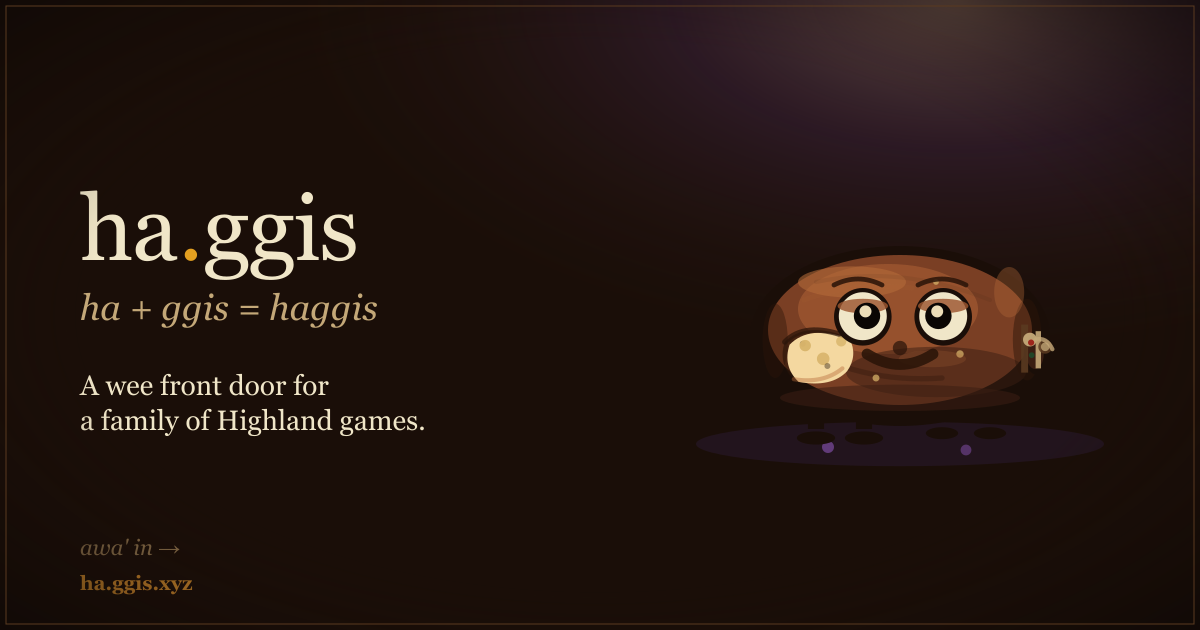
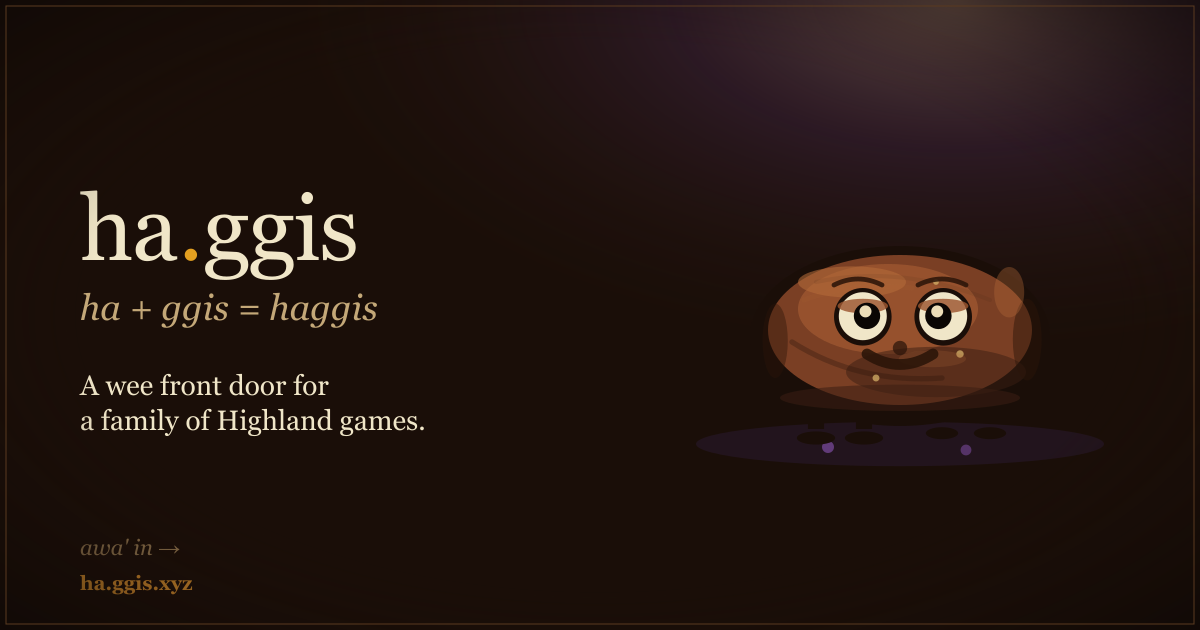
design: remove oat cutaway and tied casing from Wee Chieftain
Both read as confusing at room scale: the cutaway was unrecognisable as
a food-context window; the tied knot was unidentifiable as any feature.
Removed from bothy-haggis.ts, og.svg, og.png, golden, DESIGN.md, WRITEUP.md.
Dead fillTornCutaway helper removed. Tests rewritten to assert absence.
All 219 vitest pass; visual gate Hamming distance 0.

Changed region(s): [[0.6475, 0.5127, 0.7092, 0.6032], [0.8325, 0.5127, 0.8942, 0.6032]]

diff --git a/src/render/bothy-haggis.ts b/src/render/bothy-haggis.ts
@@ -6,10 +6,8 @@
 //
 // Read cues:
 //   - squat whole-haggis oval, wider than tall
-//   - glossy cooked casing with seams and tied ends
-//   - pale oat cutaway with casing lip as the dominant food tell
+//   - glossy cooked casing with seams
 //   - big cream eyes for WHS-level readability
-//   - compact tartan-twine collar for Scottish flavour, not a hat
 //   - tiny uneven legs for the haggis-family drift gag
 //
 // Native scale 1 is about 58 wide by 42 tall including legs. The room
@@ -160,70 +158,33 @@ export function drawBothyHaggis(
   fillEllipseRaw(ctx, palette.casingSeam, 0.48, mx(21.2), my(1.6), 2.4 * s, 6.8 * s);
   fillEllipseRaw(ctx, palette.casingHighlight, 0.36, mx(18.2), my(-6.3), 2.5 * s, 4.2 * s);
 
-  // Asymmetric tied casing. Left end is marked by the seam oval only;
-  // the right gets the tied knot. Two large side blobs would read as ears.
-  fillEllipseRaw(ctx, palette.outline, 1, mx(23), my(4), 2.4 * s, 3.5 * s);
-  fillEllipseRaw(ctx, palette.casingDeep, 1, mx(22.5), my(4), 1.45 * s, 2.5 * s);
-  fillRect(ctx, palette.twineShadow, 0.9, mx(20.2), my(-0.9), 1.15 * s, 8 * s);
-  fillRect(ctx, palette.twine, 0.9, mx(22.6), my(0.2), 0.9 * s, 6.2 * s);
-  fillCircle(ctx, palette.twine, 0.95, mx(21.65), my(1.6), 1.15 * s);
-  fillCircle(ctx, palette.twineShadow, 0.85, mx(24.2), my(2.8), 1.15 * s);
-  fillCircle(ctx, palette.twine, 0.76, mx(24.2), my(2.8), 0.72 * s);
-  fillCircle(ctx, palette.tartanRed, 0.95, mx(21.85), my(2.1), 0.52 * s);
-  fillCircle(ctx, palette.tartanGreen, 0.95, mx(21.95), my(4.2), 0.48 * s);
-  strokeCurve(
-    ctx,
-    palette.twine,
-    0.8,
-    0.7 * s,
-    mx(22.6),
-    my(1.6),
-    mx(24.4),
-    my(1.1),
-    mx(25.4),
-    my(3.2)
-  );
-
   // Casing seams: bottom wrinkle kept very faint so it doesn't compete
   // with the smile; upper seam and highlight nearly invisible in face zone.
   strokeCurve(ctx, palette.casingSeam, 0.32, 0.9 * s, mx(-18), my(2), mx(-7), my(9), mx(7), my(8));
-  strokeCurve(ctx, palette.casingSeam, 0.08, 0.7 * s, mx(-14), my(-8), mx(0), my(-11), mx(15), my(-5));
-  strokeCurve(ctx, palette.casingHighlight, 0.08, 0.8 * s, mx(-16), my(-5), mx(-8), my(-8), mx(2), my(-7));
-
-  // Pale oat cutaway: one loud food cue, kept low and left-of-centre so it
-  // reads as a cross-section window rather than edge damage or a third eye.
-  const cutawayY = 7;
-  fillTornCutaway(ctx, palette.casingSeam, 0.64, mx, my, 3, cutawayY);
-  fillTornCutaway(ctx, palette.crumbLight, 1, mx, my, 3.8, cutawayY + 0.45);
   strokeCurve(
     ctx,
     palette.casingSeam,
-    0.72,
-    0.9 * s,
-    mx(-19.2),
-    my(cutawayY - 5),
-    mx(-15.9),
-    my(cutawayY - 8.4),
-    mx(-9.2),
-    my(cutawayY - 6)
+    0.08,
+    0.7 * s,
+    mx(-14),
+    my(-8),
+    mx(0),
+    my(-11),
+    mx(15),
+    my(-5)
   );
   strokeCurve(
     ctx,
     palette.casingHighlight,
-    0.42,
-    0.7 * s,
-    mx(-17.7),
-    my(cutawayY + 1.2),
-    mx(-12.8),
-    my(cutawayY + 2),
-    mx(-9.6),
-    my(cutawayY - 0.6)
+    0.08,
+    0.8 * s,
+    mx(-16),
+    my(-5),
+    mx(-8),
+    my(-8),
+    mx(2),
+    my(-7)
   );
-  fillCircle(ctx, palette.crumbDark, 0.45, mx(-16.2), my(cutawayY - 4.7), 0.5 * s);
-  fillCircle(ctx, palette.oatFleck, 0.95, mx(-15.8), my(cutawayY - 4.4), 0.95 * s);
-  fillCircle(ctx, palette.oatFleck, 0.9, mx(-12.8), my(cutawayY - 2.2), 1.05 * s);
-  fillCircle(ctx, palette.oatFleck, 0.82, mx(-9.8), my(cutawayY - 5.1), 0.85 * s);
-  fillCircle(ctx, palette.crumbDark, 0.45, mx(-12.1), my(cutawayY - 1.0), 0.5 * s);
 
   // Oat flecks embedded in the casing.
   const flecks: readonly [number, number, number][] = [
@@ -252,7 +213,7 @@ export function drawBothyHaggis(
     ctx,
     palette.casingSeam,
     0.86,
-    0.80 * s,
+    0.8 * s,
     mx(-11),
     my(-7.5),
     mx(-7),
@@ -264,7 +225,7 @@ export function drawBothyHaggis(
     ctx,
     palette.casingSeam,
     0.86,
-    0.80 * s,
+    0.8 * s,
     mx(3),
     my(-7.5),
     mx(7),
@@ -278,63 +239,10 @@ export function drawBothyHaggis(
   fillCircle(ctx, palette.casingSeam, 0.72, mx(0), my(3), 1.2 * s);
 
   // Smile — wider and deeper than a simple arc so it reads joyful at room scale.
-  strokeCurve(
-    ctx,
-    palette.mouth,
-    0.88,
-    1.8 * s,
-    mx(-5.5),
-    my(4),
-    mx(0),
-    my(7.5),
-    mx(5.5),
-    my(4)
-  );
+  strokeCurve(ctx, palette.mouth, 0.88, 1.8 * s, mx(-5.5), my(4), mx(0), my(7.5), mx(5.5), my(4));
 }
 
 // ── Canvas2D helpers ───────────────────────────────────────────────
-
-function fillTornCutaway(
-  ctx: BothyHaggisContext,
-  color: string,
-  alpha: number,
-  mx: (dx: number) => number,
-  my: (dy: number) => number,
-  offsetX: number,
-  offsetY: number
-): void {
-  ctx.save();
-  ctx.globalAlpha = alpha;
-  ctx.fillStyle = color;
-  ctx.beginPath();
-  ctx.moveTo(mx(-22.2 + offsetX), my(-5 + offsetY));
-  ctx.quadraticCurveTo(
-    mx(-18.9 + offsetX),
-    my(-8.4 + offsetY),
-    mx(-12.2 + offsetX),
-    my(-6 + offsetY)
-  );
-  ctx.quadraticCurveTo(
-    mx(-10.8 + offsetX),
-    my(-3.2 + offsetY),
-    mx(-12.6 + offsetX),
-    my(-0.6 + offsetY)
-  );
-  ctx.quadraticCurveTo(
-    mx(-15.2 + offsetX),
-    my(2.2 + offsetY),
-    mx(-20.7 + offsetX),
-    my(1.2 + offsetY)
-  );
-  ctx.quadraticCurveTo(
-    mx(-23.4 + offsetX),
-    my(-1.4 + offsetY),
-    mx(-22.2 + offsetX),
-    my(-5 + offsetY)
-  );
-  ctx.fill();
-  ctx.restore();
-}
 
 function fillCircle(
   ctx: BothyHaggisContext,

diff --git a/src/render/bothy-haggis.test.ts b/src/render/bothy-haggis.test.ts
@@ -57,8 +57,7 @@ describe('drawBothyHaggis', () => {
   it('renders the food-shaped Wee Chieftain without throwing on empty frame', () => {
     const ctx = new RecordingHaggisContext();
     drawBothyHaggis(ctx, 100, 100, 1, {});
-    // Squat pudding body, casing seam, knot, oat flecks, cream eyes,
-    // tartan/twine collar, legs, and heather patch.
+    // Squat pudding body, casing seams, oat flecks, cream eyes, legs, and heather patch.
     expect(ctx.calls.length).toBeGreaterThan(55);
   });
 
@@ -71,13 +70,12 @@ describe('drawBothyHaggis', () => {
     expect(ctx.calls).toContain('ellipse:121.2,101.6,2.4,6.8');
   });
 
-  it('uses food-mascot colours: casing, oat flecks, cream eyes, and restrained twine', () => {
+  it('uses food-mascot colours: casing, oat flecks, and cream eyes', () => {
     const ctx = new RecordingHaggisContext();
     drawBothyHaggis(ctx, 100, 100, 1, {});
     expect(ctx.calls).toContain(`fillStyle:${BOTHY_HAGGIS_PALETTE.casingMid}`);
     expect(ctx.calls).toContain(`fillStyle:${BOTHY_HAGGIS_PALETTE.oatFleck}`);
     expect(ctx.calls).toContain(`fillStyle:${BOTHY_HAGGIS_PALETTE.eyeWhite}`);
-    expect(ctx.calls).toContain(`fillStyle:${BOTHY_HAGGIS_PALETTE.twine}`);
   });
 
   it('avoids symmetric side blobs that read as ears or headphones', () => {
@@ -85,39 +83,25 @@ describe('drawBothyHaggis', () => {
     drawBothyHaggis(ctx, 100, 100, 1, {});
     expect(ctx.calls).not.toContain('ellipse:75,101,4.2,6');
     expect(ctx.calls).not.toContain('ellipse:125,100.5,4.6,6.4');
-    expect(ctx.calls).toContain('ellipse:123,104,2.4,3.5');
+    expect(ctx.calls).not.toContain('ellipse:123,104,2.4,3.5');
   });
 
-  it('places the pale oat cutaway low on the casing so it does not compete with the face', () => {
+  it('does not render an oat cutaway or tied casing knot', () => {
     const ctx = new RecordingHaggisContext();
     drawBothyHaggis(ctx, 100, 100, 1, {});
-    expect(ctx.calls).toContain(`fillStyle:${BOTHY_HAGGIS_PALETTE.crumbLight}`);
-    expect(ctx.calls).not.toContain('moveTo:77.8,95');
-    expect(ctx.calls).toContain('moveTo:80.8,102');
-    expect(ctx.calls).toContain('quadraticCurveTo:84.1,98.6,90.8,101');
-    expect(ctx.calls).toContain('quadraticCurveTo:92.2,103.8,90.4,106.4');
-    expect(ctx.calls).toContain('quadraticCurveTo:87.8,109.2,82.3,108.2');
-    expect(ctx.calls).toContain('arc:84.2,102.6,0.95');
-    expect(ctx.calls).toContain('arc:87.2,104.8,1.05');
-    expect(ctx.calls).toContain('arc:90.2,101.9,0.85');
-    expect(ctx.calls.indexOf('moveTo:80.8,102')).toBeLessThan(
-      ctx.calls.indexOf('arc:93.8,97.7,4')
-    );
-    expect(ctx.calls).not.toContain('quadraticCurveTo:91.4,96.6,89.5,99.8');
-    expect(ctx.calls).not.toContain('ellipse:85.2,97.1,6.4,2.7');
-    expect(ctx.calls).not.toContain('ellipse:85,96.5,4.3,1.8');
-    expect(ctx.calls).not.toContain('ellipse:82,100.5,5.1,2.3');
-    expect(ctx.calls).not.toContain('ellipse:84,96,5.4,2.4');
-    expect(ctx.calls).not.toContain('ellipse:100,108.2,17,1.4');
-    expect(ctx.calls).not.toContain('moveTo:87,106');
-    expect(ctx.calls).not.toContain('moveTo:114,106');
-    expect(ctx.calls).not.toContain('lineTo:121,109.5');
-    expect(ctx.calls).toContain('fillRect:120.2,99.1,1.15,8');
-    expect(ctx.calls).toContain('fillRect:122.6,100.2,0.9,6.2');
-    expect(ctx.calls).toContain('arc:121.65,101.6,1.15');
-    expect(ctx.calls).toContain('arc:124.2,102.8,1.15');
-    expect(ctx.calls).toContain('quadraticCurveTo:124.4,101.1,125.4,103.2');
-    expect(ctx.calls).not.toContain('quadraticCurveTo:125.5,101.2,127.5,104.2');
+    expect(ctx.calls).not.toContain(`fillStyle:${BOTHY_HAGGIS_PALETTE.crumbLight}`);
+    expect(ctx.calls).not.toContain(`fillStyle:${BOTHY_HAGGIS_PALETTE.twine}`);
+    expect(ctx.calls).not.toContain('ellipse:123,104,2.4,3.5');
+    expect(ctx.calls).not.toContain('fillRect:120.2,99.1,1.15,8');
+    expect(ctx.calls).not.toContain('fillRect:122.6,100.2,0.9,6.2');
+    expect(ctx.calls).not.toContain('arc:121.65,101.6,1.15');
+    expect(ctx.calls).not.toContain('arc:124.2,102.8,1.15');
+    expect(ctx.calls).not.toContain('quadraticCurveTo:124.4,101.1,125.4,103.2');
+    expect(ctx.calls).not.toContain('moveTo:80.8,102');
+    expect(ctx.calls).not.toContain('quadraticCurveTo:84.1,98.6,90.8,101');
+    expect(ctx.calls).not.toContain('arc:84.2,102.6,0.95');
+    expect(ctx.calls).not.toContain('arc:87.2,104.8,1.05');
+    expect(ctx.calls).not.toContain('arc:90.2,101.9,0.85');
   });
 
   it('gives the eyes an alert directed look instead of a vacant or sleepy stare', () => {

diff --git a/DESIGN.md b/DESIGN.md
@@ -103,16 +103,16 @@ colors:
   art-haggis-casing-light: "#9c5630" # Lit casing face
   art-haggis-casing-highlight: "#b46a38"
   art-haggis-seam: "#2a1408"         # Casing seams and low smile
-  art-haggis-crumb-light: "#f4d8a0"  # Pale exposed oat/stuffing cutaway
-  art-haggis-crumb-dark: "#3a2a1a"   # Dark oat/stuffing speck
-  art-haggis-crumb-mid: "#6a4a28"    # Warm oat/stuffing patch
-  art-haggis-oat: "#d8b46a"          # Bright oat flecks
+  art-haggis-crumb-light: "#f4d8a0"  # Reserved — not currently rendered
+  art-haggis-crumb-dark: "#3a2a1a"   # Reserved — not currently rendered
+  art-haggis-crumb-mid: "#6a4a28"    # Reserved — not currently rendered
+  art-haggis-oat: "#d8b46a"          # Bright oat surface flecks
   art-haggis-eye: "#f0e6c8"          # Cream eye whites
   art-haggis-pupil: "#0a0604"
   art-haggis-eye-glint: "#fff0c8"
-  art-haggis-twine: "#c4a878"        # Tied-end collar
+  art-haggis-twine: "#c4a878"        # Reserved — not currently rendered
   art-haggis-twine-shadow: "#5a3a20"
-  art-haggis-tartan-red: "#9c2018"   # Tiny collar accent only
+  art-haggis-tartan-red: "#9c2018"   # Reserved — not currently rendered
   art-haggis-tartan-green: "#1f4628"
 
   # ── Text family (warm cream → ink, six stops) ───────────────
@@ -289,10 +289,10 @@ mascot:
   rationale: |
     A haggis is a Scots word for a savoury pudding (oatmeal, offal, suet,
     cased in stomach) before it was adopted as the name of a mythical creature.
-    The Wee Chieftain reads as the food artefact: squat oval casing, tied ends,
-    oat cutaway — then secondarily as a mascot with face and legs.
+    The Wee Chieftain reads as the food artefact: squat oval casing, cooked
+    surface texture, oat flecks — then secondarily as a mascot with face and legs.
   renderer: "src/render/bothy-haggis.ts — drawBothyHaggis(ctx, cx, cy, scale, frame)"
-  design-units: "body outline ~50 wide × ~30 tall; legs ~7 below baseline; tied ends ~±25 from centre"
+  design-units: "body outline ~50 wide × ~30 tall; legs ~7 below baseline"
   render-scale: 2.0   # HAGGIS_SCALE in canvas-room.ts — body 100 px wide on 540 px canvas
   storybook-scale: 1.6    # used when painted backdrop is loaded — body 80 px wide, r=52 shadow
   placement: "doorway centre, 10×scale px above floor contact point; hard-contact shadow r=68 (fallback) / r=52 (storybook)"
@@ -307,9 +307,6 @@ mascot:
       white: "4.0×scale"
       eyelid: "rx=4.2×scale, ry=1.2×scale — half-covers top of white; directed rather than vacant"
       pupil: "2.2×scale — large enough to track"
-    cutaway:
-      position: "left-of-centre (offsetX=3 design units from body centre)"
-      rationale: "centred cutaway read as wound; left-of-centre reads as cross-section window into stuffing"
     face-zone:
       rule: "seam strokes in the upper face area (above my(2)) use alpha ≤ 0.08; the lower-body seam (my(2)→my(9)) may use up to 0.32 — below the eye zone, it reads as food texture not face clutter"
       rationale: "high-alpha seams in the eye zone competed with pupils and brows; the lower seam at 0.32 adds haggis-casing texture without crossing the face"

diff --git a/CHANGELOG.md b/CHANGELOG.md
@@ -2,6 +2,22 @@
 
 All notable changes to ha.ggis Hub. Date-ordered, newest first. Format inspired by [Keep a Changelog](https://keepachangelog.com/en/1.1.0/).
 
+## [Unreleased] — 2026-05-27 design: remove oat cutaway and tied casing from Wee Chieftain
+
+Both elements read as confusing rather than charming at room scale: the oat cutaway (pale
+torn window on the left flank) was unidentifiable as food context and competed with the body
+silhouette; the tied casing knot (protruding right-end detail with twine/tartan dots) was
+unrecognisable as a feature. Both removed from bothy-haggis.ts, og.svg, and og.png. Dead
+fillTornCutaway helper removed. Tests rewritten: cutaway test now asserts absence; twine
+fillStyle assertion removed; symmetric-blob test now asserts not.toContain for the knot
+ellipse. Visual golden recaptured. All 219 tests pass.
+
+## [Unreleased] — 2026-05-27 fix: favicon.svg right pupil wall-eyed
+
+Right pupil at cx=20.8 was 0.6 units AWAY from right eye centre (cx=20.2) — same wall-eyed
+bug fixed in bothy-haggis.ts (mx(8)→mx(6.4)) and og.svg. Fixed to cx=19.6 (0.6 units toward
+centre); right glint to cx=19.28. All 219 tests pass (no tests pinned pupil coordinates).
+
 ## [Unreleased] — 2026-05-27 design: sync og.svg social card with current Wee Chieftain
 
 og.svg had accumulated significant drift from bothy-haggis.ts across multiple mascot redesign rounds:

diff --git a/WRITEUP.md b/WRITEUP.md
@@ -178,7 +178,7 @@ osv-scanner --recursive .               # cross-ecosystem CVE scan (Cargo + npm 
 
 The scene composites a painted 1080×720 Highland Dawn Bothy backdrop (WebP at [`public/art/bothy-storybook-backdrop.webp`](public/art/bothy-storybook-backdrop.webp)) over a procedural Canvas2D diorama that acts as the fallback when the image has not loaded. The backdrop carries the main composition — stone inglenook hearth, panoramic dawn through the back window, shelf props, flagstone floor — while the procedural layer remains the interactive gameplay surface: door hit-tests, door grounding, the hearth lintel "BIDE A WHILE." motto, and the haggis walk cycle all run on Canvas2D regardless of backdrop state. Door fixtures are Canvas2D overlays on both paths: the launchable door gets a lit lantern and a full-brightness bone-coloured sign; the locked door gets a dimmed heather-purple sign at 0.65 opacity — same sprite, same pixel font, different colour and alpha so the distinction reads immediately without the locked door disappearing entirely.
 
-The haggis is a fresh hub-original drawer at [`src/render/bothy-haggis.ts`](src/render/bothy-haggis.ts) — the Wee Chieftain — designed around the food joke that gives the creature its name. The shape language is the dish itself: squat cooked casing with tied ends, a pale oat cutaway with a casing lip so the mascot reads as food rather than a brown oval. The face sits above the cutaway: large cream eyes (outline 4.8×, white 4.0×, eyelid arc half-covering the top so the look is focused rather than vacant), bold single-arc brows at 86% alpha that read clearly at room scale, and a wide confident smile. Four asymmetric drift legs animate the canonical tourist-folklore "haggis can only circle the hill one way" drift. The whole mascot renders at scale 2.0 (body outline ≈100 px wide on the 540 px canvas) — large enough to read as a character at bothy scale without filling the doorway. The haggis animates at idle (breath bob) and during the walk cycle (front + back leg pairs alternate at 3 Hz). No animation library involved; the whole thing is phased sinusoids and position-delta tracking inside the renderer closure. A close-cropped version of the Wee Chieftain ships in [`public/favicon.svg`](public/favicon.svg) (browser tab); [`public/og.svg`](public/og.svg) carries the social card (1200×630) — the og.svg haggis is kept in sync with `bothy-haggis.ts` design units so both surfaces show the same character.
+The haggis is a fresh hub-original drawer at [`src/render/bothy-haggis.ts`](src/render/bothy-haggis.ts) — the Wee Chieftain — designed around the food joke that gives the creature its name. The shape language is the dish itself: squat cooked casing with surface oat flecks and seam texture so the mascot reads as food rather than a brown oval. Large cream eyes (outline 4.8×, white 4.0×, eyelid arc half-covering the top so the look is focused rather than vacant), bold single-arc brows at 86% alpha that read clearly at room scale, and a wide confident smile. Four asymmetric drift legs animate the canonical tourist-folklore "haggis can only circle the hill one way" drift. The whole mascot renders at scale 2.0 (body outline ≈100 px wide on the 540 px canvas) — large enough to read as a character at bothy scale without filling the doorway. The haggis animates at idle (breath bob) and during the walk cycle (front + back leg pairs alternate at 3 Hz). No animation library involved; the whole thing is phased sinusoids and position-delta tracking inside the renderer closure. A close-cropped version of the Wee Chieftain ships in [`public/favicon.svg`](public/favicon.svg) (browser tab); [`public/og.svg`](public/og.svg) carries the social card (1200×630) — the og.svg haggis is kept in sync with `bothy-haggis.ts` design units so both surfaces show the same character.
 
 The hub chrome (brand line, links, music button, status) renders in self-hosted Old Standard TT (`public/fonts/`), locking the humanist-serif register across Windows, macOS, and Linux without FOUT. The italic 400 weight is preloaded so the chrome renders in-font on first paint.
 